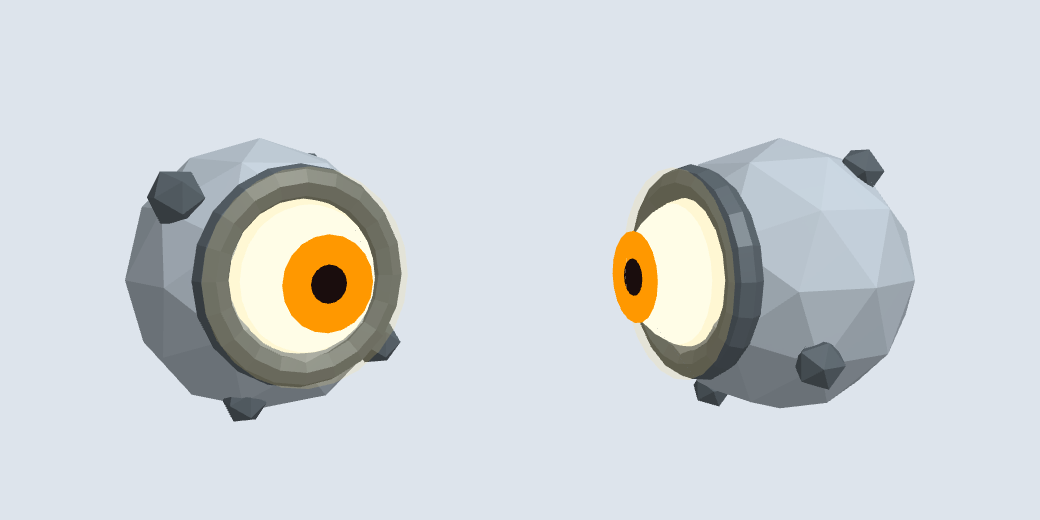
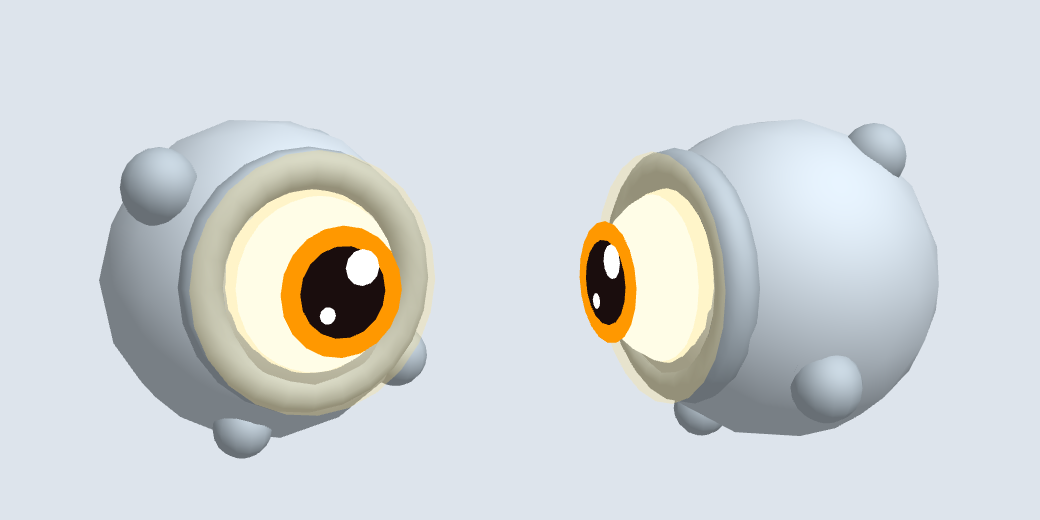
G2 怪物改毛绒玩具风：伪装者只冒一对带高光的圆眼睛；诅咒之灵改圆滚滚深紫小幽灵（大黑眼+高光、小o嘴、腮红、渐细飘带）；凝视者瞳孔放大带高光、尖刺改圆疙瘩。重截三张图放 docs/g2/
Claude-Session: https://claude.ai/code/session_01D3QPS5z2uWjiK5s1DFvPwy

Changed region(s): [[0.5538, 0.2154, 0.9231, 0.8615], [0.0923, 0.2154, 0.4308, 0.8923]]

diff --git a/js/09-hunt.js b/js/09-hunt.js
@@ -1199,39 +1199,54 @@
                 m.position.set((a[0] + b[0]) / 2, (a[1] + b[1]) / 2, (a[2] + b[2]) / 2);
                 m.quaternion.setFromUnitVectors(new THREE.Vector3(0, 1, 0), d.normalize()); (parent || g).add(m); return m;
             };
+            // 毛绒玩具风：圆眼睛带高光、软颜色、小嘴；危险靠颜色和动作，不靠吓人
+            let cuteEye = function (x, y, z, r, parent) {
+                let e = new THREE.Group(); e.position.set(x, y, z);
+                let ball = new THREE.Mesh(new THREE.SphereGeometry(r, 16, 12), bas(0x1a1226)); ball.scale.set(1, 1.12, 0.6); e.add(ball);
+                let h1 = new THREE.Mesh(new THREE.CircleGeometry(r * 0.34, 12), bas(0xffffff)); h1.position.set(r * 0.28, r * 0.38, r * 0.62); e.add(h1);
+                let h2 = new THREE.Mesh(new THREE.CircleGeometry(r * 0.16, 10), bas(0xffffff)); h2.position.set(-r * 0.3, -r * 0.3, r * 0.62); e.add(h2);
+                (parent || g).add(e); return e;
+            };
             if (type === 'angel') {
-                // 凝视者：灰色石球，正中一只发光的大眼睛
-                let stone = new THREE.MeshPhongMaterial({ color: 0x7d858c, flatShading: true, shininess: 2, specular: 0x222222 });
-                add(new THREE.IcosahedronGeometry(4.5, 1), stone, 0, 0, 0);
-                let dark = new THREE.MeshPhongMaterial({ color: 0x3f464b, flatShading: true, specular: 0x111111 });
-                [[-3.3, 2.6, 1.8, 0.9], [3.6, -2.2, 1.4, 0.8], [-1.2, -3.7, 1.9, 0.7], [2.2, 3.4, -1.5, 0.8]].forEach(function (c) { add(new THREE.IcosahedronGeometry(c[3], 0), dark, c[0], c[1], c[2]); });   // 碎石疙瘩
-                let ring = add(new THREE.TorusGeometry(2.75, 0.55, 8, 20), dark, 0, 0.3, 3.45);
+                // 凝视者：灰色圆石球，圆疙瘩，正中一只发光的大眼睛（瞳孔大、带高光）
+                let stone = new THREE.MeshPhongMaterial({ color: 0x8d959c, flatShading: false, shininess: 4, specular: 0x222222 });
+                add(new THREE.IcosahedronGeometry(4.5, 2), stone, 0, 0, 0);
+                let lump = new THREE.MeshPhongMaterial({ color: 0x7a838a, shininess: 4, specular: 0x222222 });
+                [[-3.3, 2.6, 1.8, 1.0], [3.6, -2.2, 1.4, 0.9], [-1.2, -3.7, 1.9, 0.8], [2.2, 3.4, -1.5, 0.9]].forEach(function (c) { add(new THREE.SphereGeometry(c[3], 12, 10), lump, c[0], c[1], c[2]); });
+                let ring = add(new THREE.TorusGeometry(2.75, 0.55, 10, 24), lump, 0, 0.3, 3.45);
                 let halo = add(new THREE.CircleGeometry(3.2, 24), bas(0xffe082, { transparent: true, opacity: 0.3, depthWrite: false }), 0, 0.3, 4.1);
                 let eye = add(new THREE.SphereGeometry(2.35, 20, 14), bas(0xfffde7), 0, 0.3, 3.1);
-                let iris = add(new THREE.CircleGeometry(1.35, 20), bas(0xff9800), 0, 0.3, 5.42);
-                let pupil = add(new THREE.CircleGeometry(0.62, 16), bas(0x1a0d0d), 0, 0.3, 5.46);
+                let iris = add(new THREE.CircleGeometry(1.5, 20), bas(0xff9800), 0, 0.3, 5.42);
+                let pupil = add(new THREE.CircleGeometry(1.0, 18), bas(0x1a0d0d), 0, 0.3, 5.46);
+                add(new THREE.CircleGeometry(0.42, 12), bas(0xffffff), 0.45, 0.85, 5.5);   // 高光
+                add(new THREE.CircleGeometry(0.2, 10), bas(0xffffff), -0.4, -0.2, 5.5);
                 g.userData.eye = { halo: halo, iris: iris, pupil: pupil };
             } else if (type === 'puppet') {
-                // 伪装者：平时像柜子或灯柱，靠近时冒出眼睛
+                // 伪装者：平时像柜子或灯柱，靠近时只冒出一对圆圆的大眼睛，像偷看的小猫
                 let variant = opt.variant !== undefined ? opt.variant : Math.floor(Math.random() * 2);
                 g.userData.variant = variant;
                 let eyes = new THREE.Group(); g.add(eyes);
                 let wood = lam(0x7b4a24), wood2 = lam(0x5a3416);
+                let peek = function (y, z, r) {
+                    [-1, 1].forEach(function (sd) {
+                        let e = cuteEye(sd * r * 1.25, y, z - 0.4, r, eyes); e.userData.rest = z - 0.4; e.userData.out = z + 0.5;
+                        e.scale.setScalar(0.001);
+                    });
+                };
                 if (variant === 0) {
                     add(new THREE.BoxGeometry(5.2, 9.2, 3.8), wood, 0, -0.1, 0);
                     add(new THREE.BoxGeometry(5.8, 0.7, 4.4), wood2, 0, 4.6, 0);
                     add(new THREE.BoxGeometry(5.6, 0.5, 4.2), wood2, 0, -4.6, 0);
                     add(new THREE.BoxGeometry(0.16, 8.2, 0.2), lam(0x2e1a0a), 0, -0.1, 1.95);   // 门缝
                     add(new THREE.SphereGeometry(0.34, 8, 6), lam(0xffc107), -0.7, 0, 2.05); add(new THREE.SphereGeometry(0.34, 8, 6), lam(0xffc107), 0.7, 0, 2.05);
-                    [[-1.2, 2.4], [1.3, 1.0], [0, -1.6]].forEach(function (p) { eyes.add(huntMobEye(p[0], p[1], 1.95)); });
+                    peek(2.0, 1.95, 1.05);
                 } else {
                     add(new THREE.CylinderGeometry(1.1, 1.5, 0.9, 10), lam(0x37474f), 0, -4.5, 0);
                     add(new THREE.CylinderGeometry(0.5, 0.7, 9.0, 10), lam(0x546e7a), 0, -0.2, 0);
                     add(new THREE.ConeGeometry(2.1, 1.4, 12), lam(0x37474f), 0, 4.2, 0);
                     add(new THREE.SphereGeometry(1.5, 14, 10), bas(0xffe082), 0, 3.0, 0);   // 灯泡
-                    [[0, 3.0, 1.2], [-0.2, 0.2, 0.6], [0.2, -1.8, 0.6]].forEach(function (p) { eyes.add(huntMobEye(p[0], p[1], p[2] + 0.1, p[2] > 1 ? 1.1 : 0.75)); });
+                    peek(2.55, 1.35, 0.55);
                 }
-                eyes.children.forEach(function (e) { e.scale.setScalar(0.001); });
                 g.userData.eyes = eyes;
             } else if (type === 'high') {
                 // 高空者：紫色球，带蝙蝠翅膀
@@ -1268,29 +1283,39 @@
                 let shine = add(new THREE.SphereGeometry(1.0, 10, 8), bas(0xffffff, { transparent: true, opacity: 0.55 }), -2.0, 2.4, 2.5); shine.scale.set(1.3, 0.6, 0.6); shine.rotation.z = 0.5;
                 g.userData.blob = blob;
             } else if (type === 'curser') {
-                // 诅咒之灵：半透明黑色幽灵，拖着尾巴，红眼睛
-                let ghost = lam(0x07050b, { transparent: true, opacity: 0.72, emissive: 0x150820, depthWrite: false });
-                let prof = [[0.01, 5.6], [1.6, 5.3], [2.9, 4.4], [3.5, 2.8], [3.5, 1.0], [3.1, -1.0], [2.4, -2.9], [1.5, -4.2], [0.5, -5.0]].map(function (q) { return new THREE.Vector2(q[0], q[1]); });
-                add(new THREE.LatheGeometry(prof, 20), ghost, 0, 0, 0);
-                let tail = [];
-                for (let i = 0; i < 6; i++) { let s = add(new THREE.SphereGeometry(1.9 - i * 0.28, 10, 8), ghost, 0, -3.6 + i * 0.25, -1.4 - i * 1.7); tail.push(s); }
+                // 诅咒之灵：圆滚滚的深紫小幽灵，大黑眼睛带高光、小“o”嘴、腮红，拖一条越来越细的飘带
+                let ghost = lam(0x2f1a58, { transparent: true, opacity: 0.9, emissive: 0x120826, depthWrite: false });
+                let prof = [[0.01, 5.2], [1.8, 5.0], [3.2, 4.0], [3.9, 2.4], [4.0, 0.6], [3.6, -1.3], [2.8, -2.9], [1.6, -3.9], [0.01, -4.2]].map(function (q) { return new THREE.Vector2(q[0], q[1]); });
+                add(new THREE.LatheGeometry(prof, 24), ghost, 0, 0, 0);
                 [-1, 1].forEach(function (s) {
-                    add(new THREE.ConeGeometry(0.7, 3.2, 6), ghost, s * 3.6, -0.8, 0.2).rotation.z = s * 2.5;   // 飘着的袖子
-                    let e = add(new THREE.SphereGeometry(0.85, 10, 8), bas(0xff1744), s * 1.35, 2.6, 3.05); e.scale.set(1, 1.5, 0.5);
-                    add(new THREE.SphereGeometry(1.6, 10, 8), bas(0xff1744, { transparent: true, opacity: 0.2, depthWrite: false }), s * 1.35, 2.6, 2.95);
+                    add(new THREE.SphereGeometry(0.95, 10, 8), ghost, s * 4.0, -0.8, 0.3);   // 小圆手
+                    cuteEye(s * 1.55, 1.7, 3.55, 1.0);
+                    let cheek = add(new THREE.CircleGeometry(0.75, 14), bas(0xff8fb1, { transparent: true, opacity: 0.7, depthWrite: false }), s * 2.6, 0.2, 3.35); cheek.rotation.y = s * 0.6;   // 腮红
                 });
-                add(new THREE.BoxGeometry(1.9, 0.24, 0.2), bas(0xb71c1c), 0, 0.5, 3.4);   // 嘴
-                g.userData.tail = tail;
+                add(new THREE.TorusGeometry(0.34, 0.14, 8, 14), bas(0x21122f), 0, 0.2, 3.95);   // 小“o”嘴
+                // 飘带：一条平的带子，越到末端越细，每帧摆一摆
+                let N = 14, pos = new Float32Array((N + 1) * 2 * 3), idx = [];
+                for (let i = 0; i < N; i++) { let a0 = i * 2; idx.push(a0, a0 + 1, a0 + 2, a0 + 1, a0 + 3, a0 + 2); }
+                let rg = new THREE.BufferGeometry(); rg.setAttribute('position', new THREE.BufferAttribute(pos, 3)); rg.setIndex(idx);
+                let ribbon = new THREE.Mesh(rg, new THREE.MeshLambertMaterial({ color: 0x3e2470, emissive: 0x160a2e, side: THREE.DoubleSide, transparent: true, opacity: 0.95 }));
+                ribbon.frustumCulled = false; g.add(ribbon);
+                g.userData.ribbon = { geo: rg, n: N };
+                huntMobRibbon(g.userData.ribbon, 0, g.userData.t0);
             }
             return g;
         }
-        function huntMobEye(x, y, z, size) {
-            let e = new THREE.Group(), s = size || 0.9;
-            e.add(new THREE.Mesh(new THREE.SphereGeometry(s, 12, 10), new THREE.MeshBasicMaterial({ color: 0xfff8e1 })));
-            let iris = new THREE.Mesh(new THREE.CircleGeometry(s * 0.62, 12), new THREE.MeshBasicMaterial({ color: 0xd50000 })); iris.position.z = s * 0.98; e.add(iris);
-            let pup = new THREE.Mesh(new THREE.CircleGeometry(s * 0.28, 10), new THREE.MeshBasicMaterial({ color: 0x120000 })); pup.position.z = s * 0.99 + 0.01; e.add(pup);
-            e.position.set(x, y, z - 0.4); e.userData.rest = z - 0.4; e.userData.out = z + 0.5;
-            return e;
+        // 飘带的形状：沿着身后（-z）一路往下飘，宽度越来越细到一点；t 是时间，摆起来
+        function huntMobRibbon(r, t, t0) {
+            let p = r.geo.attributes.position.array, N = r.n;
+            for (let i = 0; i <= N; i++) {
+                let f = i / N, w = 1.5 * Math.pow(1 - f, 0.9) + 0.02;
+                let cx = 2.0 + f * 2.0 + Math.sin(t * 3 - f * 4 + t0) * (0.2 + f * 1.4), cy = -2.8 - f * 2.4 + Math.sin(t * 2 - f * 3 + t0) * 0.4 * f, cz = -1.0 - f * 3.2;
+                // 带子的宽度朝上下斜着放，从侧面和正面都看得见
+                let wx = w * 0.45, wy = w * 0.9;
+                p[i * 6] = cx - wx; p[i * 6 + 1] = cy - wy; p[i * 6 + 2] = cz;
+                p[i * 6 + 3] = cx + wx; p[i * 6 + 4] = cy + wy; p[i * 6 + 5] = cz;
+            }
+            r.geo.attributes.position.needsUpdate = true; r.geo.computeVertexNormals();
         }
         // 每帧动一动：t 是秒，dist 是离玩家多远（伪装者靠近时冒眼睛）。force 给图鉴用：直接指定冒出来多少（0~1）
         function huntMobAnim(model, t, dist, popForce) {
@@ -1313,7 +1338,7 @@
                 let k = Math.sin(t * 4 + u.t0) * 0.07;
                 u.blob.scale.set(1 - k, 0.8 + k * 1.4, 1 - k);
             } else if (type === 'curser') {
-                u.tail.forEach(function (s, i) { s.position.x = Math.sin(t * 3 - i * 0.7 + u.t0) * (0.4 + i * 0.35); });
+                huntMobRibbon(u.ribbon, t, u.t0);
                 model.position.y = Math.sin(t * 2 + u.t0) * 0.5;
             }
         }

diff --git a/tests/smoke.js b/tests/smoke.js
@@ -1510,7 +1510,7 @@ async function enterExit(tab, key) {
                 // 碰撞体：跟原来一样的球/圆柱，看不见，射线能打中
                 o.geo = HUNT_MOB_ORDER.map(function (k) { let m = huntMobMesh(k); let g = m.geometry.parameters; return [k, m.geometry.type, g.radius || g.radiusTop, g.height || 0, m.material.visible, !!m.userData.model && m.children.length === 1]; });
                 // 模型：每种怪长相不一样（子物体数、关键部件）
-                o.parts = HUNT_MOB_ORDER.map(function (k) { let g = huntMobModel(k, { variant: 0 }), n = 0; g.traverse(function () { n++; }); return [k, n, !!(g.userData.eye || g.userData.eyes || g.userData.wings || g.userData.blob || g.userData.tail)]; });
+                o.parts = HUNT_MOB_ORDER.map(function (k) { let g = huntMobModel(k, { variant: 0 }), n = 0; g.traverse(function () { n++; }); return [k, n, !!(g.userData.eye || g.userData.eyes || g.userData.wings || g.userData.blob || g.userData.ribbon)]; });
                 // 通过原来的刷怪函数刷出来：数值不变
                 camera.position.set(TILE * 3, 9, TILE * 3); camera.rotation.set(0, 0, 0);
                 let before = entities.length; let fx = 3, fz = 3 - 2;
@@ -1528,7 +1528,7 @@ async function enterExit(tab, key) {
                 return JSON.stringify(o); })()`));
             const want = { angel: ['SphereGeometry', 4.5, 0], puppet: ['CylinderGeometry', 2, 10], high: ['SphereGeometry', 4.5, 0], splitter: ['SphereGeometry', 4.5, 0], curser: ['SphereGeometry', 5, 0] };
             r.geo.forEach((g) => { const w = want[g[0]]; if (g[1] !== w[0] || g[2] !== w[1] || (g[3] || 0) !== w[2] || g[4] !== false || !g[5]) bad.push('碰撞体 ' + JSON.stringify(g)); });
-            if (new Set(r.parts.map((p) => p[1])).size < 4 || r.parts.some((p) => !p[2] || p[1] < 6)) bad.push('模型太简单或没有关键部件 ' + JSON.stringify(r.parts));
+            if (new Set(r.parts.map((p) => p[1])).size < 3 || r.parts.some((p) => !p[2] || p[1] < 6)) bad.push('模型太简单或没有关键部件 ' + JSON.stringify(r.parts));
             const wantStats = JSON.stringify([['angel', '凝视者', 10, 63, 40, true, true], ['puppet', '伪装者', 15, 30, 40, true, true], ['high', '高空者', 10, 25, 20, true, true], ['splitter', '分裂者', 10, 20, 40, true, true], ['curser', '诅咒之灵', 80, 20, 0, true, true]]);
             if (JSON.stringify(r.stats) !== wantStats) bad.push('刷出来的怪 ' + JSON.stringify(r.stats));
             if (r.hit !== 5) bad.push('射线只打中 ' + r.hit + ' 个');
